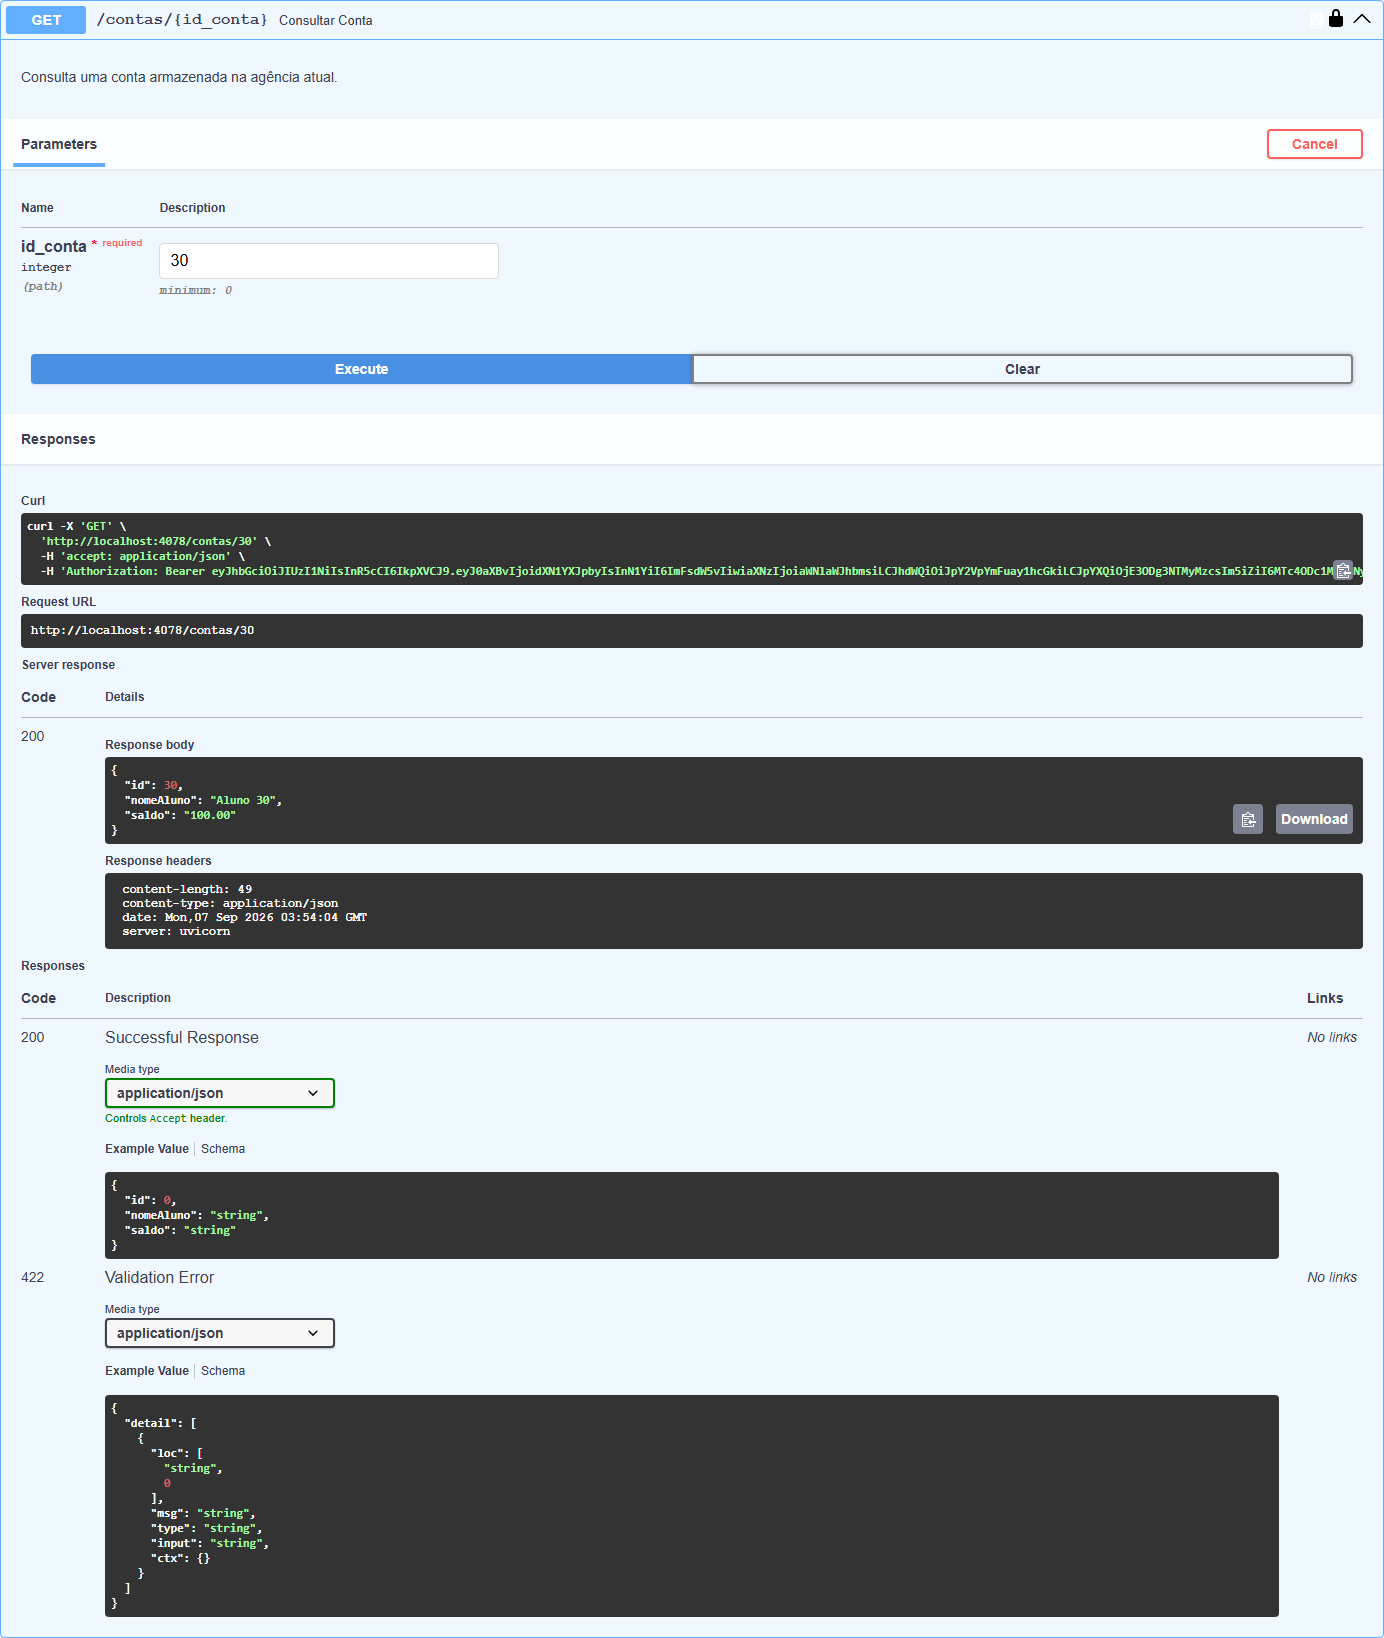
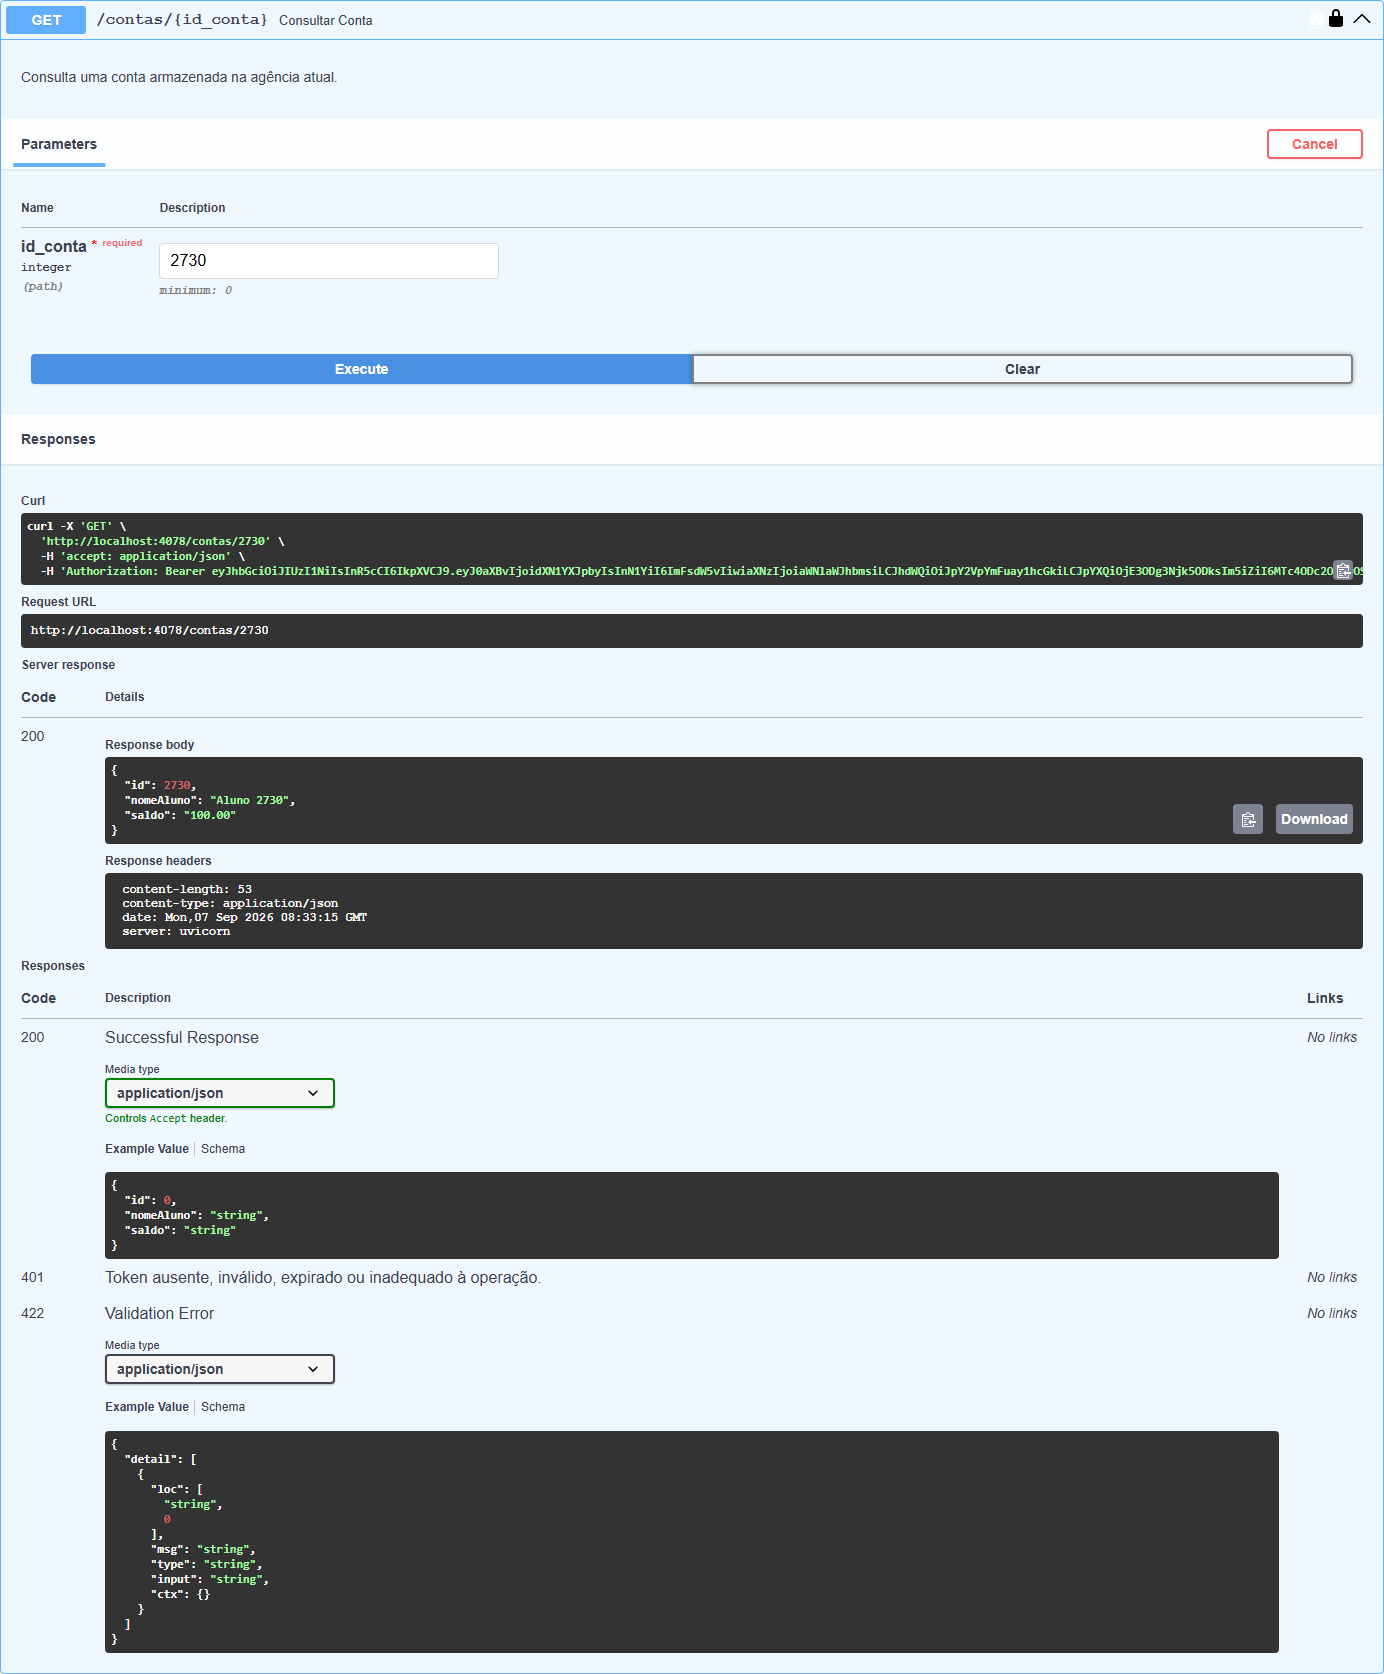
fix(sprint1): reconcilia historico local e valida entrega completa

diff --git a/agencia/frontend/app.js b/agencia/frontend/app.js
@@ -30,6 +30,7 @@ function sair() {
   $("#login-form").reset();
 }
 async function api(caminho, corpo) {
+  const tokenDaRequisicao = token;
   const base = agencias.find((item) => item.id === Number(agencia.value)).url;
   let resposta;
   try {
@@ -44,6 +45,9 @@ async function api(caminho, corpo) {
     throw new Error("Não foi possível comunicar com a agência selecionada. Verifique se ela está em execução. Se enviou uma operação, consulte o saldo antes de tentar novamente.");
   }
   const dados = await resposta.json();
+  if (tokenDaRequisicao && tokenDaRequisicao !== token) {
+    throw new Error("Sessão encerrada. Faça login novamente.");
+  }
   if (!resposta.ok) {
     if (resposta.status === 401) sair();
     const campos = (dados.erros || []).map((e) => `${e.campo}: ${e.mensagem}`).join(" ");

diff --git a/tests/e2e/test_frontend.py b/tests/e2e/test_frontend.py
@@ -1,5 +1,6 @@
 from pathlib import Path
-import re
+from datetime import datetime, timezone
+import json
 
 from playwright.sync_api import expect
 
@@ -30,7 +31,11 @@ def operar(page, operacao, valor, destino=None):
     page.locator("#operacao").select_option(operacao)
     if destino is not None: page.get_by_label("Conta de destino", exact=True).fill(str(destino))
     page.get_by_label("Valor (R$)", exact=True).fill(valor)
-    page.get_by_role("button", name="Confirmar operação").click()
+    confirmar = page.get_by_role("button", name="Confirmar operação")
+    confirmar.click()
+    # Uma mensagem de sucesso anterior pode ter o mesmo texto. Aguarde o término
+    # desta operação antes de conferir a API ou reutilizar controles.
+    expect(confirmar).to_be_enabled(timeout=15000)
 
 
 def test_login_e_erro_de_credenciais(page):
@@ -73,6 +78,11 @@ def test_fluxo_completo_tres_agencias(page, contas):
     operar(page, "remota", "5.00", id)
     expect(page.locator("#mensagem")).to_contain_text("Transferência entre agências realizada")
     assert [c.get(f"http://localhost:{4078+n%3}/contas/{n}").json()["saldo"] for n in (id, id+1, id+2, id+3)] == ["85.00", "110.00", "105.00", "115.00"]
+    historicos = [c.get(f"http://localhost:{4078+n%3}/contas/{n}/historico").json() for n in (id, id+1, id+2, id+3)]
+    (EVIDENCIAS / "fluxo-tres-agencias.json").write_text(json.dumps({
+        "verificadoEmUTC": datetime.now(timezone.utc).isoformat(),
+        "ciclo": "0 -> 1 -> 2 -> 0", "saldoTotalFinal": "415.00", "contas": historicos,
+    }, indent=2, ensure_ascii=False), encoding="utf-8")
     page.get_by_role("button", name="Sair da conta").click()
     expect(page.locator("#login-panel")).to_be_visible()
     assert not erros_js
@@ -147,3 +157,36 @@ def test_historico_conta_com_endpoint_real(page, contas):
     page.get_by_role("button", name="Consultar histórico").click()
     expect(page.locator("#historico-itens tr")).to_have_count(2)
     expect(page.locator("#historico-itens")).to_contain_text("Transferência local recebida")
+
+
+def test_falha_remota_real_mostra_502_e_debito_aplicado(page, contas):
+    id, c = contas
+    entrar(page)
+    consultar(page, id)
+    operar(page, "remota", "5.00", 999997)
+    expect(page.get_by_role("alert")).to_contain_text("HTTP 502")
+    expect(page.get_by_role("alert")).to_contain_text("não foi restaurado")
+    expect(page.locator("#saldo")).to_contain_text("95,00")
+    page.get_by_role("button", name="Consultar histórico").click()
+    expect(page.locator("#historico-itens")).to_contain_text("Transferência falhou · débito mantido")
+    assert c.get(f"http://localhost:4078/contas/{id}/historico").json()["saldoAtual"] == "95.00"
+
+
+def test_expiracao_durante_consulta_nao_restaura_dados_da_sessao(page, contas):
+    id, _ = contas
+    page.clock.install()
+    entrar(page)
+    consultar(page, id)
+
+    def resposta_tardia(route):
+        resposta = route.fetch()
+        # Avança apenas timers do navegador, mantendo a resposta real da API.
+        page.clock.fast_forward(900_001)
+        route.fulfill(response=resposta)
+
+    page.route(f"**/contas/{id}", resposta_tardia)
+    page.get_by_role("button", name="Consultar saldo").click()
+    expect(page.locator("#login-panel")).to_be_visible()
+    expect(page.locator("#mensagem")).to_contain_text("Sessão encerrada")
+    expect(page.locator("#saldo")).to_have_text("—")
+    expect(page.locator("#historico-itens tr")).to_have_count(0)

diff --git a/agencia/app/auth.py b/agencia/app/auth.py
@@ -10,6 +10,7 @@ from typing import Annotated
 
 import jwt
 from fastapi import APIRouter, Depends, HTTPException, Request
+from fastapi.responses import JSONResponse
 from fastapi.security import HTTPAuthorizationCredentials, HTTPBearer
 from pydantic import BaseModel, Field
 from pwdlib import PasswordHash
@@ -100,6 +101,8 @@ async def agencia_autenticada(
     claims = validar_token(credencial.credentials, request.app.state.auth.segredo_agencias,
                            f"agencia-{estado.agencia_id}")
     corpo = await request.json()
+    if not isinstance(corpo, dict):
+        raise erro_401("Credencial da agência não corresponde à mensagem.")
     origem = corpo.get("origemAgencia")
     if (type(origem) is not int or origem not in range(3) or origem == estado.agencia_id
             or claims.get("tipo") != "agencia" or claims["sub"] != f"agencia-{origem}"
@@ -122,7 +125,6 @@ def login(dados: Login, request: Request):
         raise erro_401("Usuário ou senha inválidos.")
     token = emitir_token(config.segredo_usuario, config.usuario, "iceibank-api",
                          config.validade_segundos, tipo="usuario")
-    from fastapi.responses import JSONResponse
     return JSONResponse({"access_token": token, "token_type": "bearer",
                          "expires_in": config.validade_segundos},
                         headers={"Cache-Control": "no-store", "Pragma": "no-cache"})

diff --git a/agencia/app/controllers/transferencias_controller.py b/agencia/app/controllers/transferencias_controller.py
@@ -115,6 +115,14 @@ async def transferir(dados: TransferenciaSolicitada, request: Request) -> dict[s
             conta_destino = estado.contas.get(dados.id_destino)
             if conta_destino is None:
                 conta_origem.saldo += valor
+                # O log já contém o débito; registrar também sua restauração evita
+                # um histórico cujo último saldo contradiga o saldo real da conta.
+                timestamp_estorno = estado.relogio.evento_local()
+                estado.registro.registrar(
+                    "ESTORNO_LOCAL", timestamp_estorno,
+                    {"idConta": conta_origem.id, "idDestino": dados.id_destino,
+                     "valor": valor_formatado, "saldo": formatar_moeda(conta_origem.saldo)},
+                )
                 raise HTTPException(
                     status_code=status.HTTP_404_NOT_FOUND,
                     detail=(

diff --git a/agencia/tests/test_auth.py b/agencia/tests/test_auth.py
@@ -18,6 +18,7 @@ def entrar(c):
 
 @pytest.mark.parametrize("metodo,rota,corpo", [
     ("GET", "/contas/0", None), ("POST", "/contas", {}),
+    ("GET", "/contas/0/historico", None),
     ("POST", "/contas/0/depositar", {"valor": 1}),
     ("POST", "/contas/0/sacar", {"valor": 1}),
     ("POST", "/transferencias", {}),
@@ -93,3 +94,10 @@ def test_configuracao_sem_segredos_falha(monkeypatch):
     monkeypatch.delenv("JWT_SECRET")
     with pytest.raises(ValueError, match="Configure"):
         ConfiguracaoAuth.do_ambiente()
+
+
+def test_mensagem_agencia_corpo_nao_objeto_retorna_401(cliente):
+    token = emitir_token(cliente.app.state.auth.segredo_agencias, "agencia-1", "agencia-0", 30, tipo="agencia")
+    r = cliente.post("/contas/0/creditar-remoto", json=[], headers={"Authorization": "Bearer " + token})
+    assert r.status_code == 401
+    assert cliente.app.state.estado_agencia.relogio.valor == 0

diff --git a/agencia/tests/test_historico.py b/agencia/tests/test_historico.py
@@ -72,3 +72,14 @@ def test_saque_rejeitado_nao_cria_evento(tmp_path):
         criar(c, 0)
         assert c.post("/contas/0/sacar", json={"valor": "101.00"}).status_code == 400
         assert c.get("/contas/0/historico").json()["total"] == 1
+
+
+def test_destino_local_ausente_historico_reconcilia_saldo(tmp_path):
+    with cliente(tmp_path) as c:
+        criar(c, 0)
+        assert c.post("/transferencias", json={"idOrigem": 0, "idDestino": 3, "valor": "10.00"}).status_code == 404
+        h = c.get("/contas/0/historico").json()
+        assert h["saldoAtual"] == "100.00"
+        assert [e["tipo"] for e in h["eventos"]] == ["CRIAR_CONTA", "TRANSFERENCIA_DEBITO", "ESTORNO_LOCAL"]
+        assert h["eventos"][-1]["detalhes"]["saldo"] == h["saldoAtual"]
+        assert [e["timestampLamport"] for e in h["eventos"]] == [1, 2, 3]

diff --git a/agencia/app/main.py b/agencia/app/main.py
@@ -84,8 +84,9 @@ def criar_aplicacao(
         )
 
     app.include_router(auth_router)
-    app.include_router(contas_router, dependencies=[Depends(usuario_autenticado)])
-    app.include_router(transferencias_router)
+    resposta_401 = {401: {"description": "Token ausente, inválido, expirado ou inadequado à operação."}}
+    app.include_router(contas_router, dependencies=[Depends(usuario_autenticado)], responses=resposta_401)
+    app.include_router(transferencias_router, responses=resposta_401)
 
     frontend = Path(__file__).resolve().parents[1] / "frontend"
     app.mount("/static", StaticFiles(directory=frontend), name="static")

diff --git a/agencia/executar.py b/agencia/executar.py
@@ -28,12 +28,13 @@ def main() -> None:
     load_dotenv(Path(__file__).resolve().parents[1] / ".env")
     try:
         agencia_id = obter_agencia_id()
+        app = criar_aplicacao(agencia_id)
     except ValueError as erro:
         raise SystemExit(f"Erro de configuração: {erro}") from None
 
     porta = porta_da_agencia(agencia_id)
     print(f"Iniciando Agência {agencia_id} em http://localhost:{porta}", flush=True)
-    uvicorn.run(criar_aplicacao(agencia_id), host="127.0.0.1", port=porta)
+    uvicorn.run(app, host="127.0.0.1", port=porta)
 
 
 if __name__ == "__main__":

diff --git a/RESPOSTAS.md b/RESPOSTAS.md
@@ -166,3 +166,29 @@ Testes em `agencia/tests/test_historico.py` cobrem isolamento, paginação, auto
 rejeições, crédito remoto, falha remota e reinício. O teste de navegador
 `test_historico_conta_com_endpoint_real` usa as três agências reais e produz
 `evidencias/sprint1/funcionalidade-adicional.png`.
+
+## Revisão final e compatibilidade com as seções 1–10
+
+A revisão identificou que uma transferência para destino **local** inexistente já
+restaurava o saldo, mas deixava somente o evento de débito no log. Foi acrescentado
+`ESTORNO_LOCAL` com saldo restaurado para que o novo histórico seja fiel ao estado.
+O status 404 e o saldo final permanecem iguais; a falha **remota** continua sem
+restauração, como exigido na Sprint 1. Não foi introduzida compensação distribuída.
+
+Também foi impedido que uma resposta atrasada repopule a conta após a sessão
+expirar, e mensagens de agência com corpo não-objeto passam a ser rejeitadas com
+401 antes do relógio. Os testes incluem falha remota real na interface (502 e
+saldo debitado) e expiração durante uma consulta. Para o timer de frontend, o teste
+avança somente o relógio do navegador; a evidência JWT expirado usa espera real.
+
+O checklist operacional está em `CHECKLIST_SPRINT1.md` e o método das capturas em
+`evidencias/sprint1/README.md`. O enunciado original da disciplina não está presente
+no repositório; as respostas acima cobrem os requisitos fornecidos na solicitação
+de continuação. O vídeo de apresentação foi expressamente excluído desta entrega.
+
+Verificação final de 07/09/2026: **99 testes passaram**, sendo 90 de backend e 9 de
+navegador. O ciclo real pelas três agências foi confirmado pelas APIs, com saldo
+total final de R$ 415,00. Saída, datas e saldos estão em
+`evidencias/sprint1/verificacao.txt` e `evidencias/sprint1/fluxo-tres-agencias.json`.
+Permanece um aviso de depreciação do TestClient/Starlette já presente na base;
+nenhum teste falhou. As sete novas capturas foram conferidas visualmente.

diff --git a/README.md b/README.md
@@ -129,6 +129,11 @@ Get-Date
 python -m pytest agencia/tests tests/e2e -q
 ```
 
+Para também salvar a verificação com `Get-Date`, execute
+`./scripts/verificar_sprint1.ps1`. O relatório fica em
+`evidencias/sprint1/verificacao.txt`, e o teste do ciclo completo salva os saldos e
+históricos reais em `evidencias/sprint1/fluxo-tres-agencias.json`.
+
 Os testes de backend verificam regras monetárias, particionamento, logs, Lamport,
 JWT e histórico. Os testes Playwright executam no Chromium real e conferem saldos
 nas três APIs, erros, logout, sessão expirada, layout móvel e histórico.
@@ -144,5 +149,6 @@ requerem acesso à internet. O frontend bancário não depende desses assets.
 
 Commits separados para autenticação, frontend, histórico, evidências/documentação e
 correções finais na branch `sprint1/desenvolvimento`. O PR existente para `main`
-só sai de draft após a validação do escopo desta entrega; não há merge. O vídeo
-permanece explicitamente pendente e fora do trabalho solicitado.
+permanece em draft enquanto o vídeo estiver pendente, pois a condição solicitada
+para marcar pronto é a conclusão integral da Sprint. O vídeo está fora deste
+trabalho. Não há merge em `main`.

diff --git a/CHECKLIST_SPRINT1.md b/CHECKLIST_SPRINT1.md
@@ -63,8 +63,10 @@ existentes das seções 6.4, 8.3 e 10 foram preservadas.
 - [x] Testes cobrem erros e mantêm explícita a inconsistência da Sprint 1.
 - [x] Evidências de navegador são screenshots reais sem composição/edição.
 - [x] Evidências anteriores de terminal preservadas; data registrada na verificação.
-- [ ] Verificação consolidada final registrada em `evidencias/sprint1/verificacao.txt`.
-- [ ] Commits finais publicados e PR atualizado após a revisão.
+- [x] Verificação consolidada final registrada em `evidencias/sprint1/verificacao.txt`: 99 testes passaram (90 backend, 9 navegador), em 07/09/2026.
+- [x] Commits finais publicados e PR atualizado após a revisão.
 - [ ] Vídeo de apresentação — **excluído do escopo por solicitação**.
 
 Não executar merge em `main` nesta entrega.
+O PR permanece em draft enquanto o vídeo estiver pendente; a condição de concluir
+a Sprint integralmente antes de marcar pronto foi preservada.

diff --git a/evidencias/sprint1/README.md b/evidencias/sprint1/README.md
@@ -53,3 +53,9 @@ Alguns testes adicionais de frontend simulam falha de rede/401 para conferir a
 recuperação da interface. Eles não produzem as capturas de autenticação e não
 substituem os testes HTTP reais. A suíte de backend também valida tokens expirados,
 assinaturas alteradas e mensagens de serviço inválidas.
+
+O teste do ciclo completo salva também [fluxo-tres-agencias.json](fluxo-tres-agencias.json)
+com os saldos e históricos devolvidos pelas APIs. O comando
+`./scripts/verificar_sprint1.ps1` salva a saída real de testes e `Get-Date` em
+[verificacao.txt](verificacao.txt). Os PNGs anteriores das seções 1–10 não são
+reescritos pelos testes.
